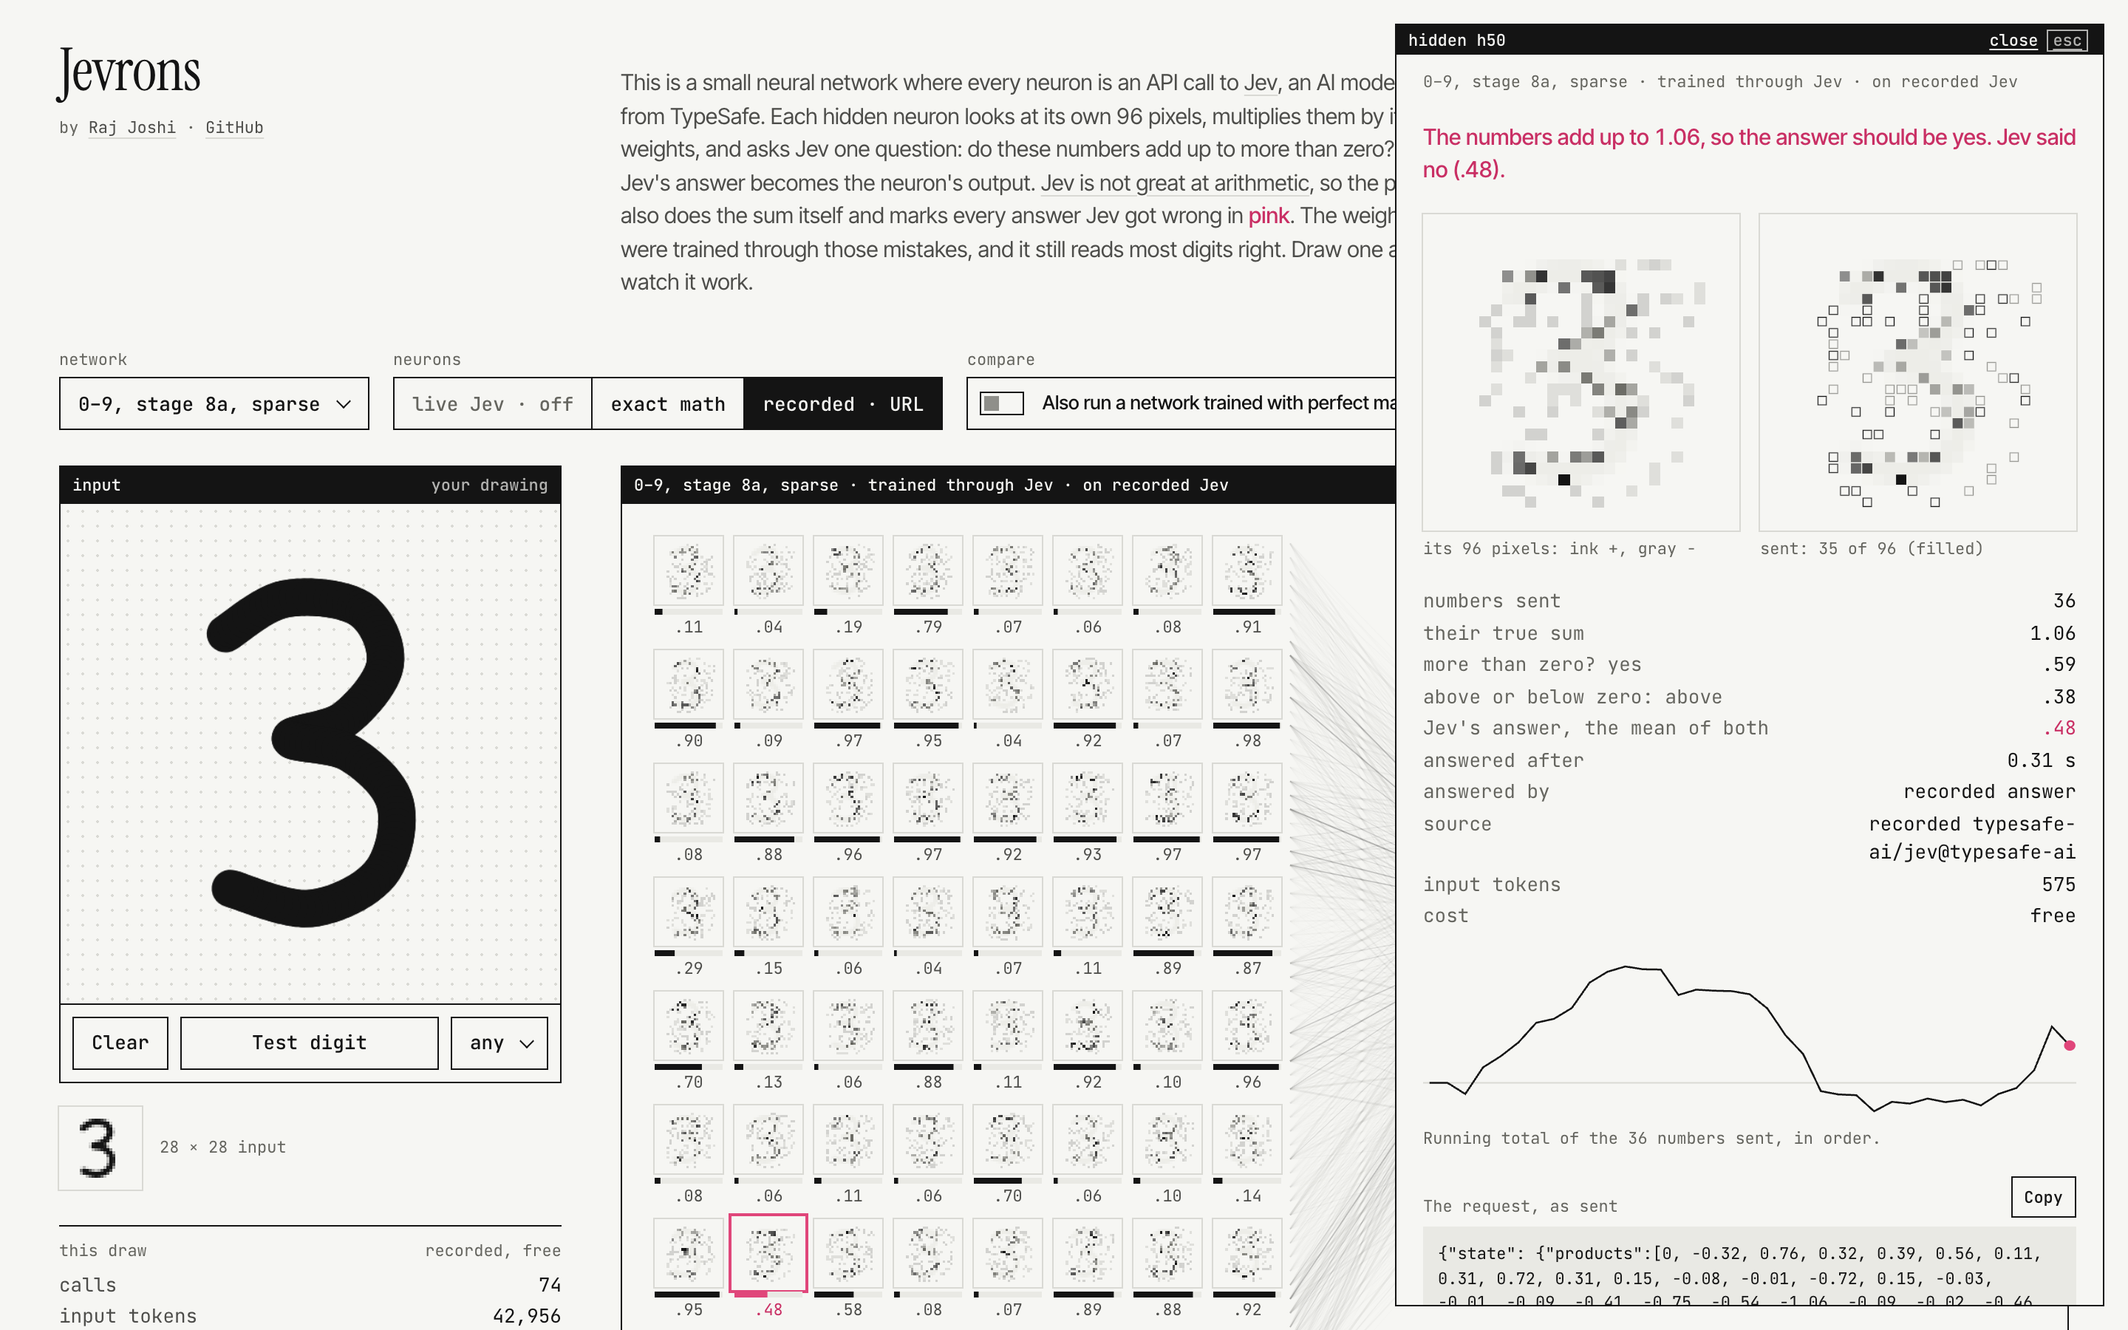
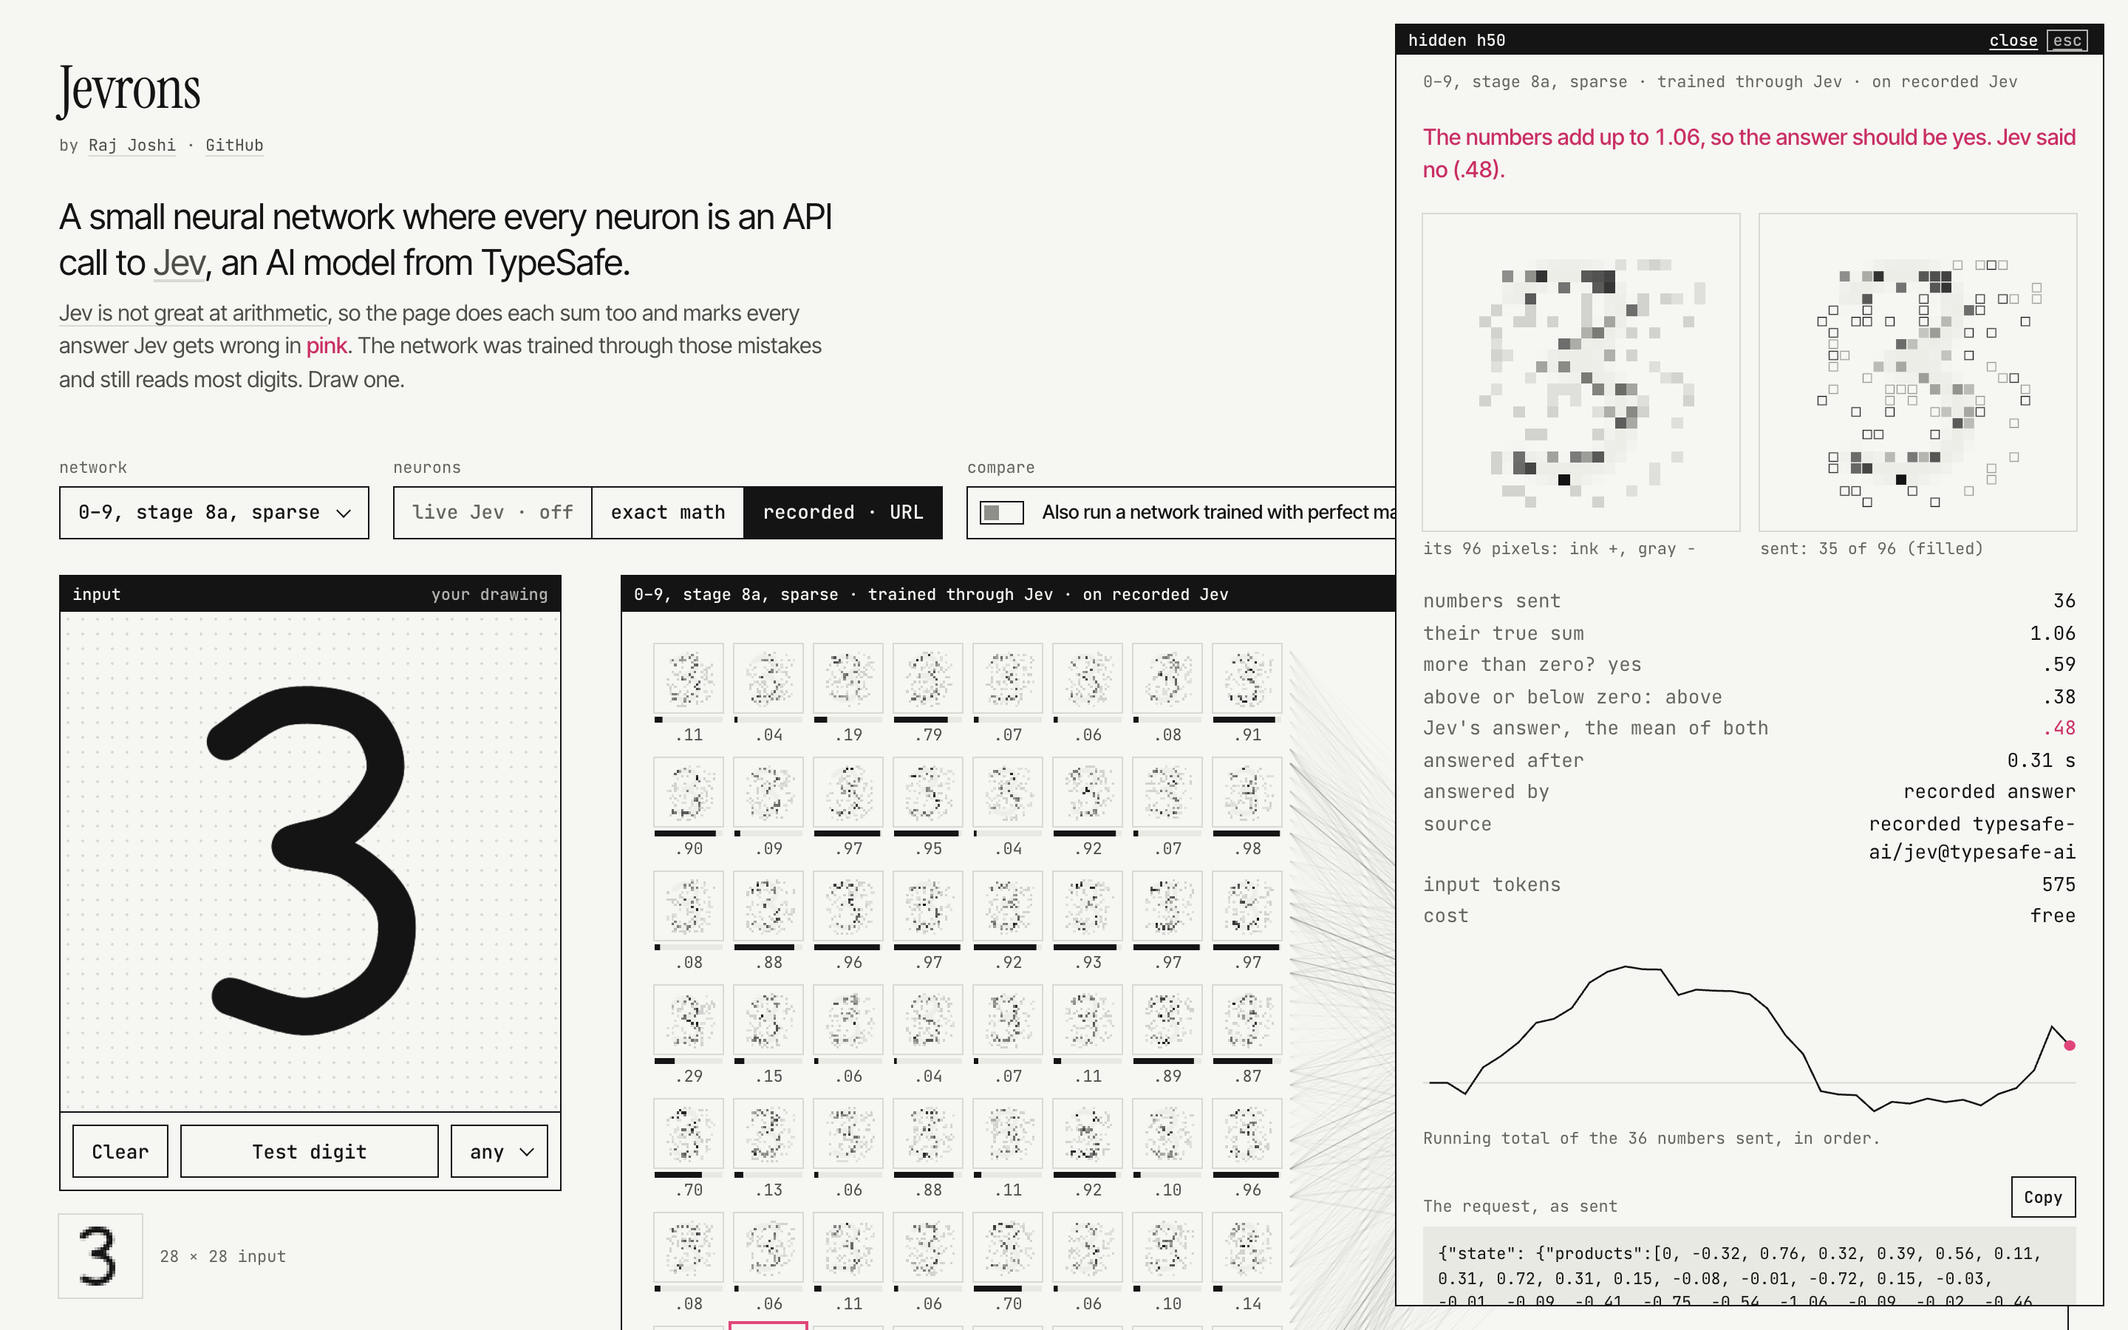
:sparkles: feat[demo]: composed intro, How it works section with MathML, no video mentions

Changed region(s): [[0.0312, 0.0622, 0.6562, 1.0], [0.0312, 0.0311, 0.125, 0.1244], [0.625, 0.7156, 0.6562, 0.7467]]

diff --git a/demo/web/style.css b/demo/web/style.css
@@ -29,6 +29,7 @@
   --fs-ui: 13px;
   --fs-body: 15px;
   --fs-digit: 176px;
+  --fs-hero: 24px;        /* the intro's lead line */
   --fs-lead: 20px;        /* the compare verdict line */
   --fs-v: 96px;           /* the compare verdict digits */
 
@@ -78,22 +79,48 @@ kbd { font: 500 var(--fs-cap)/1 var(--mono); border: 1px solid currentColor; pad
 }
 
 /* ---------- header ---------- */
-.top { display: grid; grid-template-columns: var(--rail) minmax(0, 1fr); gap: var(--gap); align-items: baseline;
-  max-width: var(--max); margin: 0 auto; padding: 28px var(--s7) 0; }
+/* title, byline and a short lead read as one block, flush with the controls and cards below */
+.top { display: grid; grid-template-columns: minmax(0, 1fr); gap: var(--s5); max-width: var(--max); margin: 0 auto;
+  padding: var(--s7) var(--s7) 0; }
 .brand { display: flex; flex-direction: column; gap: var(--s3); }
 h1 { font: 400 40px/0.95 var(--display); letter-spacing: -0.01em; margin: 0; }
 .by { margin: 0; font: var(--fs-cap)/1.5 var(--mono); color: var(--mute); }
 .by a, .lede a { color: var(--ink-2); text-decoration: underline; text-decoration-color: var(--rule); text-underline-offset: 3px;
   transition: color var(--dur-1) ease-out, text-decoration-color var(--dur-1) ease-out; }
 .by a:hover, .lede a:hover { color: var(--ink); text-decoration-color: currentColor; }
-.lede { margin: 0; max-width: 64ch; color: var(--ink-2); text-wrap: pretty; }
+.lede { display: grid; gap: var(--s2); max-width: 62ch; }
+.lede p { margin: 0; text-wrap: pretty; }
+.lead { font: 400 var(--fs-hero)/1.3 var(--sans); letter-spacing: -0.01em; color: var(--ink); }
+.sub { color: var(--ink-2); }
 .status { margin: 0; white-space: nowrap; color: var(--ink-2); display: flex; align-items: center; gap: var(--s2); }
 .status i { flex: 0 0 auto; width: 7px; height: 7px; border: 1px solid var(--mute); }
 .status.live { color: var(--ink); }
 .status.live i { background: var(--ink); border-color: var(--ink); }
 
 .layout { display: grid; grid-template-columns: var(--rail) minmax(0, 1fr); gap: var(--s5) var(--gap); align-items: start;
-  max-width: var(--max); margin: 0 auto; padding: var(--s6) var(--s7) 64px; }
+  max-width: var(--max); margin: 0 auto; padding: var(--s7) var(--s7) 64px; }
+
+/* ---------- how it works: the same frame as the header, the explanation and the math ---------- */
+.how { max-width: var(--max); margin: 0 auto; padding: var(--s6) var(--s7) 80px; }
+.how h2 { font: 400 32px/1 var(--display); letter-spacing: -0.01em; margin: 0 0 var(--s5); padding-top: var(--s5); border-top: var(--line); }
+.how-grid { display: grid; grid-template-columns: repeat(2, minmax(0, 1fr)); gap: var(--s6) var(--s7); }
+.how article { display: grid; gap: var(--s3); align-content: start; max-width: 64ch; }
+.how h3 { margin: 0; font: 500 var(--fs-cap)/1.5 var(--mono); color: var(--mute); }
+.how p { margin: 0; color: var(--ink-2); text-wrap: pretty; }
+.how i { font-family: "STIX Two Math", "Cambria Math", math, serif; font-size: 1.05em; color: var(--ink); }
+.eq { overflow-x: auto; padding: var(--s3) var(--s4); background: var(--faint); color: var(--ink); }
+.eq math { font-family: "STIX Two Math", "Cambria Math", math, serif; font-size: 1.15em; margin: 0; }
+.eq-alt { display: none; font: var(--fs-ui)/1.5 var(--mono); }
+.no-mathml .eq math { display: none; }
+.no-mathml .eq-alt { display: block; }
+.acc { display: grid; grid-template-columns: auto minmax(0, 1fr); gap: var(--s2) var(--s4); margin: 0; font: var(--fs-ui)/1.4 var(--mono); }
+.acc dt { color: var(--ink-2); }
+.acc dd { margin: 0; display: grid; grid-template-columns: minmax(0, 1fr) auto; align-items: center; gap: var(--s3); }
+.acc-bar { position: relative; height: 10px; background: var(--faint); }
+.acc-bar::after { content: ""; position: absolute; inset: 0 auto 0 0; width: calc(var(--v) * 100%); background: var(--ink); }
+.how .how-links { margin: var(--s6) 0 0; font: var(--fs-cap)/1.5 var(--mono); color: var(--mute); }
+.how-links a, .how a { color: var(--ink-2); text-decoration: underline; text-decoration-color: var(--rule); text-underline-offset: 3px; }
+.how-links a:hover { color: var(--ink); text-decoration-color: currentColor; }
 
 /* ---------- windows, after TypeSafe's one-bit panels ---------- */
 .win { border: var(--line); background: var(--paper); border-radius: var(--radius); }
@@ -201,7 +228,7 @@ h1 { font: 400 40px/0.95 var(--display); letter-spacing: -0.01em; margin: 0; }
 /* ---------- network panel ---------- */
 .panels { display: grid; grid-template-columns: minmax(0, 1fr); gap: var(--s5); }
 .panel .p-tag { display: inline-block; margin-right: var(--s2); padding: 0 5px; background: var(--paper); color: var(--ink); }
-.net { position: relative; display: grid; grid-template-columns: auto minmax(64px, 150px) minmax(150px, 210px) minmax(130px, 1fr);
+.net { position: relative; display: grid; grid-template-columns: auto minmax(0, 150px) minmax(150px, 210px) minmax(110px, 1fr);
   grid-template-areas: "hidden . outs pred"; gap: 0 var(--s5); align-items: center; padding: 22px 22px 20px; }
 .wires { position: absolute; inset: 0; width: 100%; height: 100%; pointer-events: none; overflow: visible; }
 .wires line { stroke: var(--ink); vector-effect: non-scaling-stroke; transition: stroke-opacity var(--dur-3) var(--ease); }
@@ -333,7 +360,7 @@ pre.state { background: var(--faint); padding: 10px; margin: 0; white-space: pre
 
 /* ---------- film: ?film ---------- */
 body.film { --rail: 500px; --tile: 54px; }
-body.film .lede, body.film .controls, body.film .bill, body.film .seen, body.film .row, body.film .pad-empty,
+body.film .lede, body.film .how, body.film .controls, body.film .bill, body.film .seen, body.film .row, body.film .pad-empty,
 body.film .calls-head .btn, body.film .by, body.film .p-note, body.film .verdict, body.film .verdict-more, body.film .out-axis { display: none !important; }
 body.film .top, body.film .layout { max-width: 1800px; padding-left: 56px; padding-right: 56px; }
 body.film .top { padding-top: 48px; grid-template-columns: var(--rail) 1fr; }
@@ -353,7 +380,7 @@ body.film .calls-track { pointer-events: none; }
 }
 
 /* ---------- narrower ---------- */
-@media (max-width: 1180px) {
+@media (max-width: 1279px) {
   .top { grid-template-columns: 1fr auto; gap: var(--s2) var(--s5); }
   .top .lede { grid-column: 1 / -1; grid-row: 2; }
   .layout { grid-template-columns: minmax(0, 1fr); gap: 28px; }
@@ -364,7 +391,12 @@ body.film .calls-track { pointer-events: none; }
   .pred { grid-template-columns: auto 1fr; align-items: end; gap: 20px; }
   :root { --fs-digit: 112px; }
 }
+@media (max-width: 900px) { .how-grid { grid-template-columns: minmax(0, 1fr); } }
 @media (max-width: 700px) {
+  .how { padding: var(--s5) var(--s4) 56px; }
+  .how h2 { font-size: 28px; }
+  .lead { font-size: 19px; }
+  .top { gap: var(--s4); }
   :root { --gap: var(--s4); --tile: minmax(0, 1fr); --fs-digit: 96px; --h: 44px; }
   .top, .layout { padding-left: var(--s4); padding-right: var(--s4); }
   .top { padding-top: 20px; align-items: start; }

diff --git a/demo/web/index.html b/demo/web/index.html
@@ -17,7 +17,12 @@
     <h1>Jevrons</h1>
     <p class="by">by <a href="https://rajjoshi.me">Raj Joshi</a> · <a href="https://github.com/iamrajjoshi/jevrons">GitHub</a></p>
   </div>
-  <p class="lede" id="lede"></p>
+  <div class="lede">
+    <p class="lead">A small neural network where every neuron is an API call to <a href="https://typesafe.ai">Jev</a>, an AI model from TypeSafe.</p>
+    <p class="sub"><a href="https://docs.typesafe.ai/model-jaggedness/jev-1.13#math-and-numbers">Jev is not great at arithmetic</a>, so the
+      page does each sum too and marks every answer Jev gets wrong in <span class="dis-key">pink</span>. The network was trained
+      through those mistakes and still reads most digits. Draw one.</p>
+  </div>
 </header>
 
 <main class="layout">
@@ -86,6 +91,44 @@
     </section>
   </div>
 </main>
+
+<section class="how" id="how" aria-labelledby="how-title">
+  <h2 id="how-title">How it works</h2>
+  <div class="how-grid">
+    <article>
+      <h3>one neuron</h3>
+      <p>A hidden neuron is wired to 96 fixed pixels <i>S</i>. Its sum is the usual weighted sum:</p>
+      <div class="eq"><math display="block" alttext="z = sum over i in S of w_i x_i, plus b"><mi>z</mi><mo>=</mo><munder><mo>∑</mo><mrow><mi>i</mi><mo>∈</mo><mi>S</mi></mrow></munder><msub><mi>w</mi><mi>i</mi></msub><msub><mi>x</mi><mi>i</mi></msub><mo>+</mo><mi>b</mi></math><code class="eq-alt">z = Σ wᵢ·xᵢ + b, over i in S</code></div>
+      <p>The page doesn't send <i>z</i>. It sends Jev the list of products <i>wᵢxᵢ</i> and <i>b</i>, and asks: do these add up to
+        more than zero? Jev's probability of yes, <i>p</i>, is the neuron's output. The page works out <i>z</i> itself, and a
+        neuron is <span class="dis-key">pink</span> when the two disagree:</p>
+      <div class="eq"><math display="block" alttext="pink when (p at least 0.5) differs from (z greater than 0)"><mtext class="dis-key">pink</mtext><mspace width="0.5em"/><mo>⟺</mo><mspace width="0.5em"/><mo stretchy="false">(</mo><mi>p</mi><mo>≥</mo><mn>0.5</mn><mo stretchy="false">)</mo><mo>≠</mo><mo stretchy="false">(</mo><mi>z</mi><mo>&gt;</mo><mn>0</mn><mo stretchy="false">)</mo></math><code class="eq-alt">pink ⇔ (p ≥ 0.5) ≠ (z &gt; 0)</code></div>
+    </article>
+    <article>
+      <h3>the network</h3>
+      <p>784 pixels feed 64 hidden neurons, 96 pixels each, which feed 10 outputs, one per digit. That's 74 Jev calls a
+        digit: the 64 hidden ones at once, then the 10 outputs. The highest output wins:</p>
+      <div class="eq"><math display="block" alttext="predicted digit = argmax over k of p_k"><mover><mi>y</mi><mo>^</mo></mover><mo>=</mo><munder><mrow><mi>arg</mi><mo>&#x2061;</mo><mi>max</mi></mrow><mi>k</mi></munder><mspace width="0.2em"/><msub><mi>p</mi><mi>k</mi></msub></math><code class="eq-alt">ŷ = argmaxₖ pₖ</code></div>
+      <p>Stage 7, the other network in the menu, is dense: every hidden neuron sees all 784 pixels (784 → 32 → 10, 42 calls).</p>
+    </article>
+    <article>
+      <h3>training</h3>
+      <p>Jev has no gradient. Training uses a straight-through estimator: the forward pass uses Jev's real <i>p</i>, and the
+        backward pass uses the slope of <i>f</i>, Jev's measured response curve, at the neuron's <i>z</i>:</p>
+      <div class="eq"><math display="block" alttext="dL/dz is approximately dL/dp times f prime of z"><mfrac><mrow><mo>∂</mo><mi>L</mi></mrow><mrow><mo>∂</mo><mi>z</mi></mrow></mfrac><mo>≈</mo><mfrac><mrow><mo>∂</mo><mi>L</mi></mrow><mrow><mo>∂</mo><mi>p</mi></mrow></mfrac><mo>·</mo><mi>f</mi><mo lspace="0" rspace="0">′</mo><mo stretchy="false">(</mo><mi>z</mi><mo stretchy="false">)</mo></math><code class="eq-alt">∂L/∂z ≈ ∂L/∂p · f′(z)</code></div>
+    </article>
+    <article>
+      <h3>the comparison</h3>
+      <p>The perfect-math twin starts from the same weights but trains on an exact step neuron, so it never sees Jev's
+        mistakes. Run on Jev, over 1,000 test digits:</p>
+      <dl class="acc">
+        <dt>trained through Jev</dt><dd><span class="acc-bar" style="--v: .853"></span>85.3%</dd>
+        <dt>trained with perfect math</dt><dd><span class="acc-bar" style="--v: .658"></span>65.8%</dd>
+      </dl>
+    </article>
+  </div>
+  <p class="how-links"><a href="https://github.com/iamrajjoshi/jevrons">code on GitHub</a> · <a href="https://rajjoshi.me/blog/jevrons">the write-up</a></p>
+</section>
 
 <aside class="drawer win" id="inspector" role="dialog" aria-modal="false" aria-labelledby="i-title" hidden>
   <div class="bar"><span id="i-title">neuron</span><button class="x" id="i-close" type="button" aria-label="Close inspector">close <kbd>esc</kbd></button></div>

diff --git a/demo/web/app.js b/demo/web/app.js
@@ -8,7 +8,7 @@
                         GET /api/digit?recorded=s8a-jev picks one at random)
      &source=replay     live | exact (the two visitors see) | replay | mock (URL only; not in the UI).
                         Default: live when the server runs with --live, else exact; mock in film mode
-     &model=s7-jev      any name in demo/models.json (default s8a-jev; s7-jev in film mode, which the video's takes use)
+     &model=s7-jev      any name in demo/models.json (default s8a-jev; s7-jev in film mode)
      &compare=training  one | training | neuron (neuron: URL only)
      &seed=7            mock/replay randomness; film defaults to 7 so a take repeats exactly
      &delay=900         ms before the stroke starts (default 900)
@@ -293,14 +293,6 @@ function rove(items, cols, onFocus) {
   });
 }
 
-function renderLede(m) {
-  $("#lede").innerHTML = `This is a small neural network where every neuron is an API call to <a href="https://typesafe.ai">Jev</a>, an AI model from TypeSafe. ` +
-    `Each ${sparse(m) ? "hidden neuron looks at its own " + m.fields + " pixels" : "neuron looks at the pixels"}, multiplies them by its weights, ` +
-    `and asks Jev one question: do these numbers add up to more than zero? Jev's answer becomes the neuron's output. ` +
-    `<a href="https://docs.typesafe.ai/model-jaggedness/jev-1.13#math-and-numbers">Jev is not great at arithmetic</a>, so the page also does the sum itself and marks every answer Jev got wrong in ` +
-    `<span class="dis-key">pink</span>. The weights were trained through those mistakes, and it still reads most digits right. Draw one and watch it work.`;
-}
-
 async function configure() {
   const hasTwin = pick(S.task, "jev") && pick(S.task, "exact");
   if (!hasTwin && S.compare === "training") S.compare = "one";
@@ -319,7 +311,6 @@ async function configure() {
   if (u) u.textContent = `${SOURCE_NAME[S.source].split(" ")[0]} · URL`;  // "recorded · URL", "simulated · URL"
   setSeg("#source", viaUrl ? "url" : S.source);
   const cfg = plan(), m = cfg[0].model;
-  renderLede(m);
   // which recorded test digits this network and its twin read differently, for "Show a test digit they read differently"
   if (S.compare === "training" && !(m.name in diffs)) {
     diffs[m.name] = [];
@@ -821,6 +812,9 @@ function clear() {
 }
 
 async function boot() {
+  { const m = document.createElementNS("http://www.w3.org/1998/Math/MathML", "math"), sp = document.createElementNS(m.namespaceURI, "mspace");
+    sp.setAttribute("width", "40px"); m.append(sp); m.style.position = "absolute"; document.body.append(m);
+    if (Math.abs(m.getBoundingClientRect().width - 40) > 2) document.documentElement.classList.add("no-mathml"); m.remove(); }
   if (Q.get("theme")) document.documentElement.dataset.theme = Q.get("theme");
   if (FILM) document.body.classList.add("film");
   const r = await (await fetch("/api/models")).json();

diff --git a/demo/README.md b/demo/README.md
@@ -64,7 +64,7 @@ A draw that stops early is charged a full draw, since calls in flight can still 
 ## Film mode
 
 `/?film` hides the copy and controls, enlarges the pad and tiles, fixes the seed (7) and keeps the frame still while
-calls stream in. Film mode defaults to stage 7 and the mock, which is what the video's takes were recorded on. Add:
+calls stream in. Film mode defaults to stage 7 and the mock. Add:
 
 | flag | effect |
 | --- | --- |
@@ -74,13 +74,6 @@ calls stream in. Film mode defaults to stage 7 and the mock, which is what the v
 | `&model=s8a-jev` | any name in `models.json` |
 | `&theme=dark` | `light` or `dark` |
 | `&compare=training`, `&seed=7`, `&delay=900` | as named (`compare=neuron` puts exact and Jev side by side) |
-
-The takes the video uses:
-
-- `/?film&source=replay&stroke=3` replays the live stage 7 draw of stroke 3 from 2026-09-27: 42 real answers,
-  predicted 3, with rate-limit waits squeezed.
-- `/?film&source=replay&digit=5110` replays a stage 7 test 7 from the training journal.
-- `/?film&source=replay&stroke=3&model=s8a-jev` replays a live stage 8a draw of the same stroke from 2026-09-28.
 
 A recording script can call `await window.jevrons.play("3")` (it resolves when the answer is in) and
 `window.jevrons.clear()`. It can also watch `document.body.dataset.state` (`idle`, `drawing`, `running`, `done`) or

diff --git a/demo/DESIGN.md b/demo/DESIGN.md
@@ -72,6 +72,14 @@ All controls are native elements (`button`, `select`, `input[type=range]`), with
   has a Copy button that confirms for 1.2 s.
 - Badges (R, S) are 9px mono on an ink square: a single letter, explained in the panel notice and the tile's tooltip.
 
+## Header and "How it works"
+
+- The header is one left-aligned block on the page's grid: the serif title, the byline, a 24px lead sentence (`--fs-hero`),
+  and one quiet supporting line with the two links and the pink key. It stops at 62ch however wide the screen is.
+- The detail and the math live at the bottom in "How it works", in the same frame: a serif heading over a 1px rule, mono
+  labels, sans prose, and equations in native MathML on a `--faint` box that scrolls sideways on its own if it has to.
+  If the browser can't lay out MathML, a plain-text version of each equation shows instead (`.no-mathml`).
+
 ## Compare
 
 - Off by default. The switch says what it does ("Also run a network trained with perfect math"). No prices up front.
